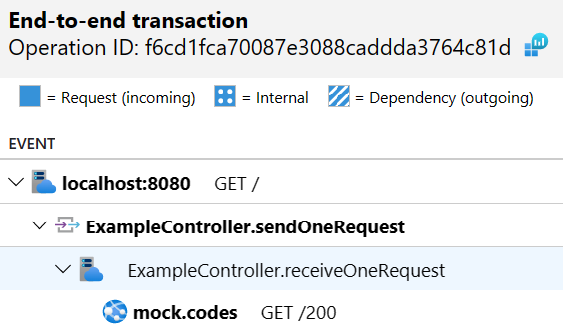
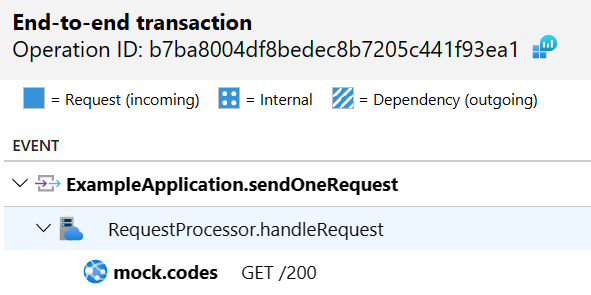
Simplify manual trace propagation example

diff --git a/advanced/manual-trace-propagation/src/main/java/com/example/ExampleApplication.java b/advanced/manual-trace-propagation/src/main/java/com/example/ExampleApplication.java
@@ -1,12 +1,103 @@
 package com.example;
 
-import org.springframework.boot.SpringApplication;
+import io.opentelemetry.api.trace.Span;
+import io.opentelemetry.api.trace.SpanContext;
+import io.opentelemetry.api.trace.SpanKind;
+import io.opentelemetry.api.trace.TraceFlags;
+import io.opentelemetry.api.trace.TraceState;
+import io.opentelemetry.context.Scope;
+import io.opentelemetry.instrumentation.annotations.WithSpan;
 import org.springframework.boot.autoconfigure.SpringBootApplication;
+
+import java.io.DataInputStream;
+import java.io.DataOutputStream;
+import java.io.IOException;
+import java.io.InputStream;
+import java.net.ServerSocket;
+import java.net.Socket;
+import java.net.URL;
+import java.net.URLConnection;
 
 @SpringBootApplication
 public class ExampleApplication {
 
-    public static void main(String[] args) {
-        SpringApplication.run(ExampleApplication.class, args);
+    public static void main(String[] args) throws Exception {
+        ServerSocket serverSocket = new ServerSocket(0);
+        RequestProcessor requestProcessor = new RequestProcessor(serverSocket);
+        requestProcessor.setDaemon(true);
+        requestProcessor.start();
+
+        sendOneRequest(serverSocket.getLocalPort());
+
+        // give time for the request to be handled before exiting
+        Thread.sleep(1000);
+    }
+
+    @WithSpan(kind = SpanKind.CLIENT) // this annotation will generate dependency telemetry
+    private static void sendOneRequest(int port) throws IOException {
+        try (Socket localSocket = new Socket("localhost", port);
+             DataOutputStream out = new DataOutputStream(localSocket.getOutputStream())) {
+
+            out.writeUTF(Span.current().getSpanContext().getTraceId());
+            out.writeUTF(Span.current().getSpanContext().getSpanId());
+        }
+    }
+
+    private static class RequestProcessor extends Thread {
+
+        private final ServerSocket serverSocket;
+
+        private RequestProcessor(ServerSocket serverSocket) {
+            this.serverSocket = serverSocket;
+        }
+
+        @Override
+        public void run() {
+            while (true) {
+                try {
+                    try (Socket socket = serverSocket.accept()) {
+                        process(socket);
+                    }
+                } catch (IOException e) {
+                    e.printStackTrace();
+                }
+            }
+        }
+
+        private static void process(Socket socket) throws IOException {
+            try (DataInputStream in = new DataInputStream(socket.getInputStream())) {
+
+                String traceId = in.readUTF();
+                String parentSpanId = in.readUTF();
+
+                // "parent span" represents the CLIENT span that was propagated over the wire
+                SpanContext parentSpanContext = SpanContext.create(traceId, parentSpanId, TraceFlags.getSampled(), TraceState.getDefault());
+                Span parentSpan = Span.wrap(parentSpanContext);
+
+                // making the parent span context current will cause the request telemetry below
+                // to be parented to it
+                try (Scope ignored = parentSpan.makeCurrent()) {
+                    handleRequest();
+                }
+            }
+        }
+
+        // this annotation will generate request telemetry and make it current
+        @WithSpan(kind = SpanKind.SERVER)
+        private static void handleRequest() throws IOException {
+            // everything inside this method will be parented to the request telemetry
+            doSomethingThatIsAutoInstrumented();
+        }
+
+        private static void doSomethingThatIsAutoInstrumented() throws IOException {
+            URL obj = new URL("https://mock.codes/200");
+            URLConnection connection = obj.openConnection();
+            try (InputStream content = connection.getInputStream()) {
+                // drain the content
+                byte[] buffer = new byte[1024];
+                while (content.read(buffer) != -1) {
+                }
+            }
+        }
     }
 }
